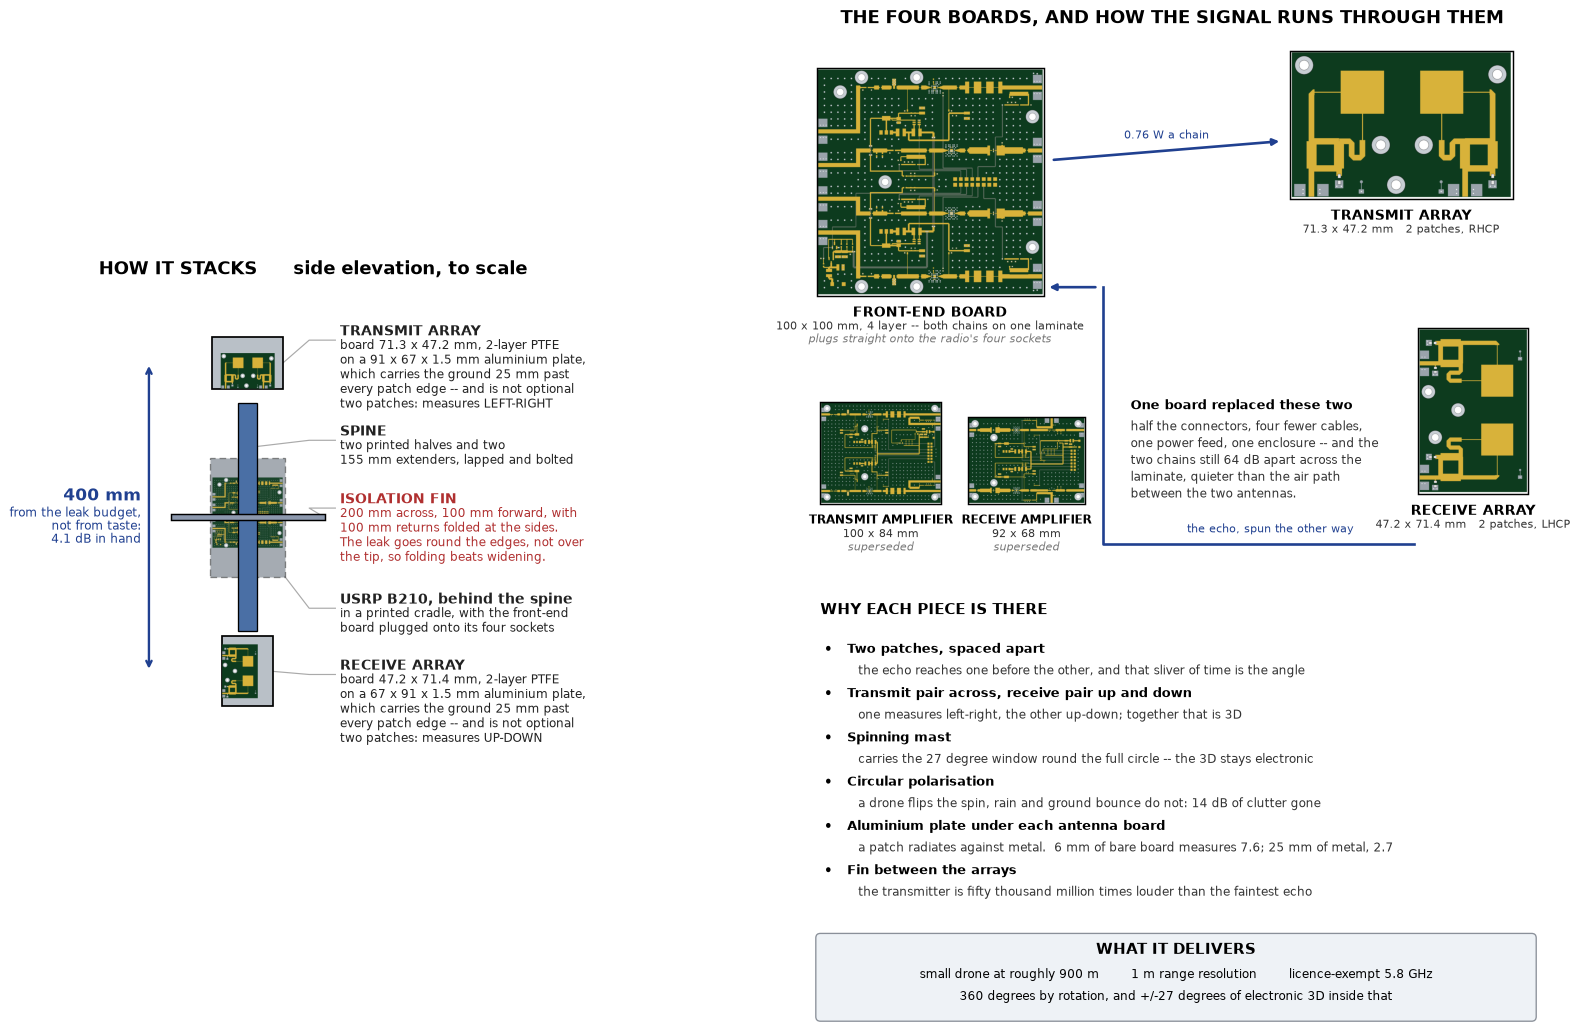
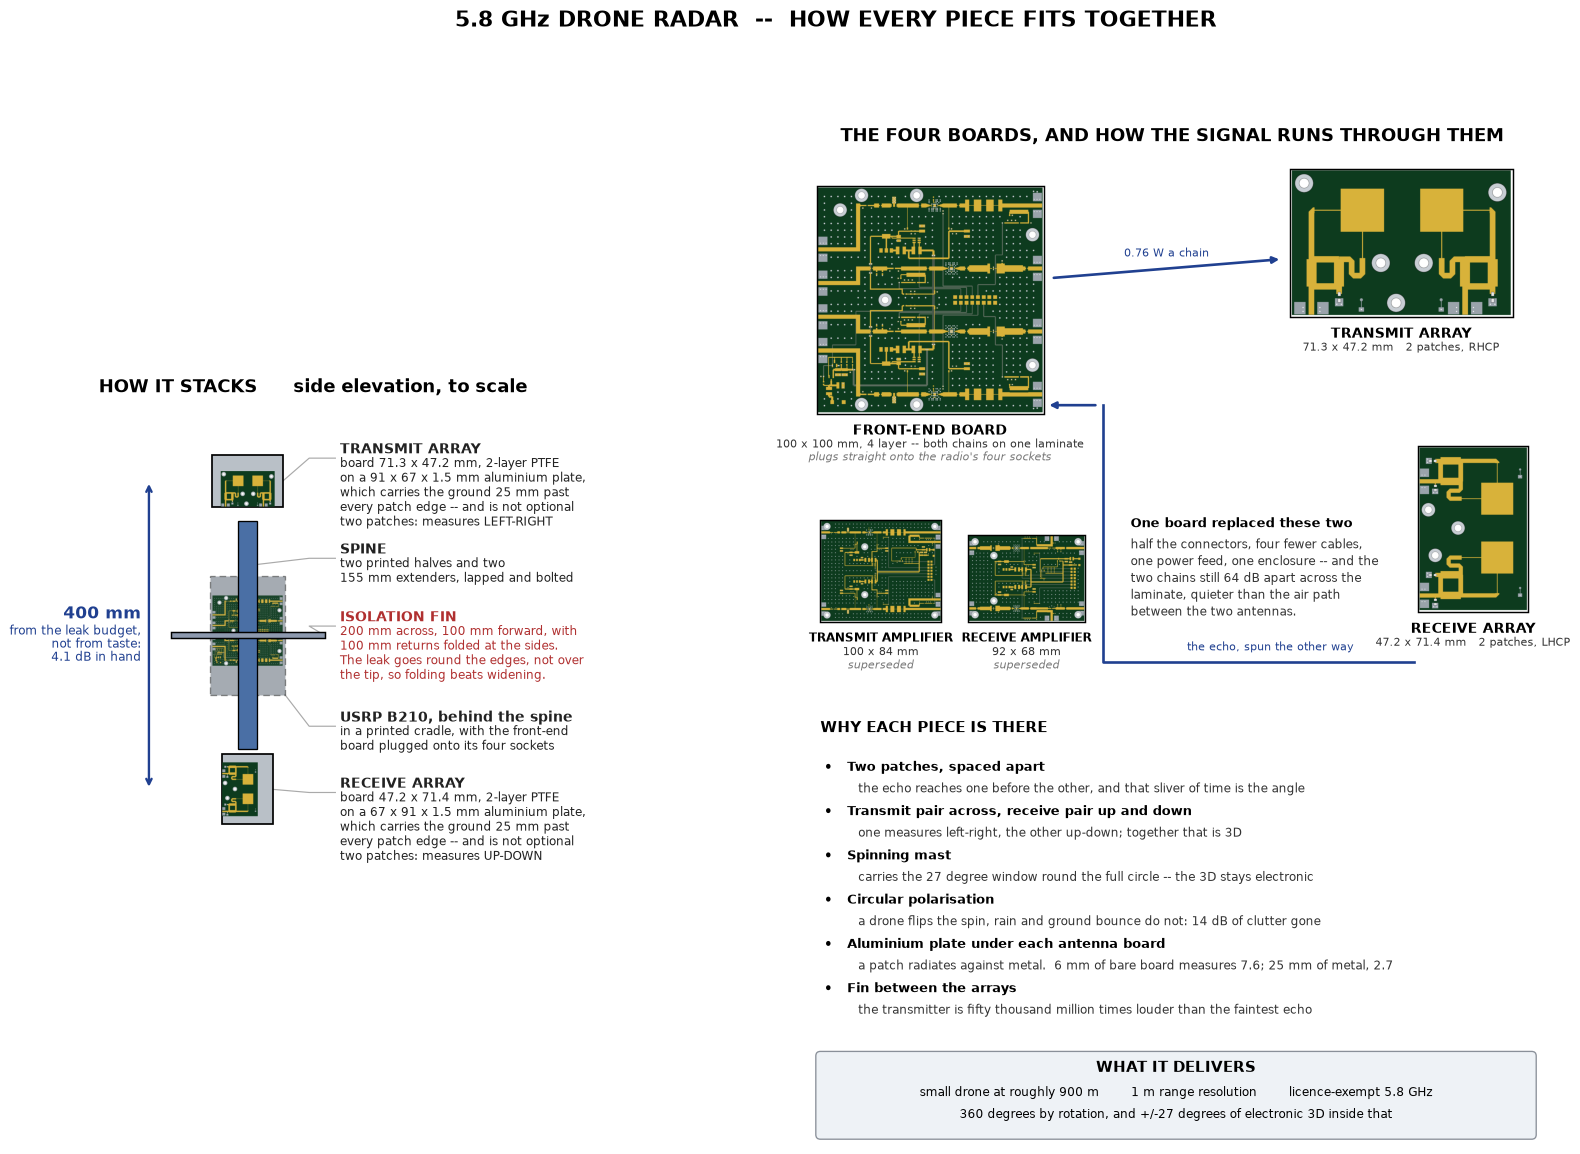
Auto-update: 2026-08-11 09:16:34

diff --git a/design/mk_system.py b/design/mk_system.py
@@ -1,0 +1,175 @@
+
+import json, matplotlib
+matplotlib.use('Agg')
+import matplotlib.pyplot as plt
+import matplotlib.image as mpimg
+from matplotlib.patches import FancyBboxPatch, Rectangle
+
+D = 'design/'
+tx = json.load(open(D+'board_transmit.json'))
+rx = json.load(open(D+'board_receive.json'))
+fe = json.load(open(D+'fe_board.json'))
+pa = json.load(open(D+'pa_board.json'))
+ln = json.load(open(D+'lna_board.json'))
+IM = {k: mpimg.imread(D+'brd_%s.png' % k) for k in ('tx','rx','fe','pa','lna')}
+SEP = 400.0
+
+fig = plt.figure(figsize=(23, 13.5))
+gs = fig.add_gridspec(1, 2, width_ratios=[0.80, 1.45], wspace=0.03)
+
+# ============================================ LEFT: the stack, to scale
+ax = fig.add_subplot(gs[0, 0]); ax.set_aspect('equal'); ax.axis('off')
+ax.set_title("HOW IT STACKS      side elevation, to scale",
+             fontsize=14, fontweight='bold', pad=12)
+LX, DY = 120.0, 19.0
+def lab(y_part, y_txt, head, lines, colour='#222', anchor=52.0):
+    ax.plot([anchor, LX-40, LX-6], [y_part, y_txt, y_txt],
+            color='#aaa', lw=.9, zorder=1)
+    ax.text(LX, y_txt+11, head, fontsize=10.6, fontweight='bold',
+            va='center', color=colour)
+    for i, t in enumerate(lines):
+        ax.text(LX, y_txt-7-i*DY, t, fontsize=9.2, color=colour, va='center')
+
+# the radio sits BEHIND the spine, spanning the fin -- drawn dashed, in place
+RY = -SEP/2
+ax.add_patch(Rectangle((-48.5, RY-77.5), 97, 155, fc='#5b6673', ec='#333',
+                       lw=1, ls=(0, (5, 3)), zorder=2, alpha=.55))
+ax.imshow(IM['fe'], extent=[-46, 46, RY-40, RY+52], zorder=2, alpha=.92)
+
+for cy, (pw, ph), b_, key, head, ytxt in (
+        (0.0, (91, 67), tx, 'tx', 'TRANSMIT ARRAY', 30),
+        (-SEP, (67, 91), rx, 'rx', 'RECEIVE ARRAY', -404)):
+    ax.add_patch(Rectangle((-pw/2, cy-ph/2), pw, ph, fc='#b9c0c7', ec='k',
+                           lw=1.3, zorder=5))
+    bw, bh = b_['outline']
+    ox = -pw/2 + (10.0 if key == 'tx' else 0.0)
+    oy = cy - ph/2 + (0.0 if key == 'tx' else 10.0)
+    ax.imshow(IM[key], extent=[ox, ox+bw, oy, oy+bh], zorder=6)
+    lab(cy, ytxt, head, [
+        "board %.1f x %.1f mm, 2-layer PTFE" % (bw, bh),
+        "on a %g x %g x 1.5 mm aluminium plate," % (pw, ph),
+        "which carries the ground 25 mm past",
+        "every patch edge -- and is not optional",
+        "two patches: measures " + ("LEFT-RIGHT" if key=='tx' else "UP-DOWN"),
+    ], anchor=pw/2)
+
+ax.add_patch(Rectangle((-12.5, -SEP+52), 25, SEP-104, fc='#4a6fa5', ec='k',
+                       lw=1, zorder=4))
+lab(-108, -100, "SPINE", ["two printed halves and two",
+                          "155 mm extenders, lapped and bolted"], anchor=12.5)
+ax.add_patch(Rectangle((-100, RY-4), 200, 8, fc='#8d99ae', ec='k',
+                       lw=1.1, zorder=7))
+lab(RY, RY+12, "ISOLATION FIN",
+    ["200 mm across, 100 mm forward, with",
+     "100 mm returns folded at the sides.",
+     "The leak goes round the edges, not over",
+     "the tip, so folding beats widening."],
+    colour='#b03030', anchor=100)
+lab(RY-77, RY-118, "USRP B210, behind the spine",
+    ["in a printed cradle, with the front-end",
+     "board plugged onto its four sockets"], anchor=48.5)
+
+ax.annotate('', xy=(-128, 0), xytext=(-128, -SEP),
+            arrowprops=dict(arrowstyle='<->', lw=1.8, color='#204090'))
+ax.text(-138, -SEP/2+22, "400 mm", color='#204090', ha='right',
+        fontsize=13, fontweight='bold')
+for i, t in enumerate(["from the leak budget,", "not from taste:",
+                       "4.1 dB in hand"]):
+    ax.text(-138, -SEP/2+1-i*17, t, color='#204090', ha='right', fontsize=9)
+ax.set_xlim(-300, 470); ax.set_ylim(-SEP-135, 95)
+
+# ============================================ RIGHT: the boards themselves
+ax2 = fig.add_subplot(gs[0, 1]); ax2.axis('off')
+ax2.set_xlim(0, 10); ax2.set_ylim(-1.15, 11.9)
+ax2.set_title("THE FOUR BOARDS, AND HOW THE SIGNAL RUNS THROUGH THEM",
+              fontsize=14, fontweight='bold', pad=12)
+
+def show(key, x, y, w, title, sub, note='', fs=10.4):
+    """y is the BOTTOM of the caption; the board sits above it."""
+    im = IM[key]
+    h = w * im.shape[0] / im.shape[1]
+    cap = 0.46 if note else 0.34
+    by = y + cap
+    ax2.imshow(im, extent=[x, x+w, by, by+h], zorder=3)
+    ax2.add_patch(Rectangle((x, by), w, h, fc='none', ec='k', lw=1.1, zorder=4))
+    ax2.text(x+w/2, y+cap-0.14, title, ha='center', fontsize=fs,
+             fontweight='bold', va='top')
+    ax2.text(x+w/2, y+cap-0.33, sub, ha='center', fontsize=8.5, color='#333',
+             va='top')
+    if note:
+        ax2.text(x+w/2, y+cap-0.50, note, ha='center', fontsize=8.2,
+                 color='#777', style='italic', va='top')
+    return h + cap
+
+def ar(x0, y0, x1, y1, t='', off=0.16):
+    ax2.annotate('', xy=(x1, y1), xytext=(x0, y0),
+                 arrowprops=dict(arrowstyle='-|>', lw=2.0, color='#204090'))
+    if t:
+        ax2.text((x0+x1)/2, (y0+y1)/2+off, t, ha='center', fontsize=8.6,
+                 color='#204090')
+
+show('fe', 0.30, 8.05, 3.00, "FRONT-END BOARD",
+     "100 x 100 mm, 4 layer -- both chains on one laminate",
+     "plugs straight onto the radio's four sockets")
+show('tx', 6.55, 9.45, 2.95, "TRANSMIT ARRAY",
+     "71.3 x 47.2 mm   2 patches, RHCP")
+show('rx', 8.25, 5.55, 1.45, "RECEIVE ARRAY",
+     "47.2 x 71.4 mm   2 patches, LHCP")
+ar(3.40, 10.30, 6.45, 10.55, "0.76 W a chain")
+ax2.plot([8.20, 4.08, 4.08], [5.22, 5.22, 8.62], color='#204090',
+         lw=2.0, solid_joinstyle='round', zorder=3)
+ax2.annotate('', xy=(3.34, 8.62), xytext=(4.02, 8.62),
+             arrowprops=dict(arrowstyle='-|>', lw=2.0, color='#204090'))
+ax2.text(6.30, 5.38, "the echo, spun the other way", fontsize=8.7,
+         color='#204090', ha='center')
+
+show('pa', 0.35, 5.30, 1.60, "TRANSMIT AMPLIFIER", "100 x 84 mm",
+     "superseded", fs=9.3)
+show('lna', 2.30, 5.30, 1.55, "RECEIVE AMPLIFIER", "92 x 68 mm",
+     "superseded", fs=9.3)
+
+ax2.text(4.45, 7.14, "One board replaced these two", fontsize=10,
+         fontweight='bold', va='top')
+for i, t in enumerate([
+        "half the connectors, four fewer cables,",
+        "one power feed, one enclosure -- and the",
+        "two chains still 64 dB apart across the",
+        "laminate, quieter than the air path",
+        "between the two antennas."]):
+    ax2.text(4.45, 6.86 - i*0.222, t, fontsize=9.0, color='#333', va='top')
+
+ax2.text(0.35, 4.30, "WHY EACH PIECE IS THERE", fontsize=11.5,
+         fontweight='bold')
+rows = [
+ ("Two patches, spaced apart",
+  "the echo reaches one before the other, and that sliver of time is the angle"),
+ ("Transmit pair across, receive pair up and down",
+  "one measures left-right, the other up-down; together that is 3D"),
+ ("Spinning mast",
+  "carries the 27 degree window round the full circle -- the 3D stays electronic"),
+ ("Circular polarisation",
+  "a drone flips the spin, rain and ground bounce do not: 14 dB of clutter gone"),
+ ("Aluminium plate under each antenna board",
+  "a patch radiates against metal.  6 mm of bare board measures 7.6; 25 mm of metal, 2.7"),
+ ("Fin between the arrays",
+  "the transmitter is fifty thousand million times louder than the faintest echo"),
+]
+y = 3.92
+for a, b in rows:
+    ax2.text(0.40, y, "•   " + a, fontsize=9.8, fontweight='bold', va='top')
+    ax2.text(0.85, y-0.285, b, fontsize=9.0, color='#333', va='top')
+    y -= 0.585
+ax2.add_patch(FancyBboxPatch((0.35, -1.02), 9.4, 1.04,
+                             boxstyle="round,pad=0.06", fc='#eef2f6',
+                             ec='#8a9099'))
+ax2.text(5.05, -0.19, "WHAT IT DELIVERS", ha='center', fontsize=11,
+         fontweight='bold')
+ax2.text(5.05, -0.51, "small drone at roughly 900 m        "
+         "1 m range resolution        licence-exempt 5.8 GHz",
+         ha='center', fontsize=9.2)
+ax2.text(5.05, -0.80, "360 degrees by rotation, and +/-27 degrees of "
+         "electronic 3D inside that", ha='center', fontsize=9.2)
+fig.suptitle("5.8 GHz DRONE RADAR  --  HOW EVERY PIECE FITS TOGETHER",
+             fontsize=17, fontweight='bold', y=0.995)
+plt.savefig('SYSTEM.png', dpi=95, bbox_inches='tight')
+print("  SYSTEM.png rebuilt with the real boards")
